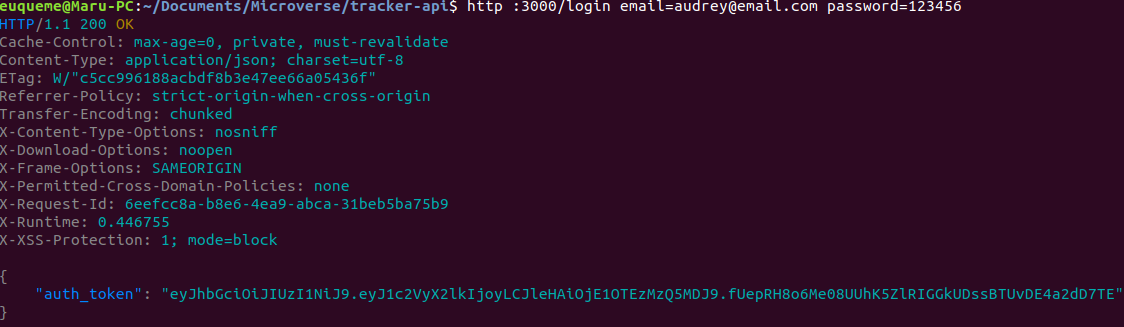
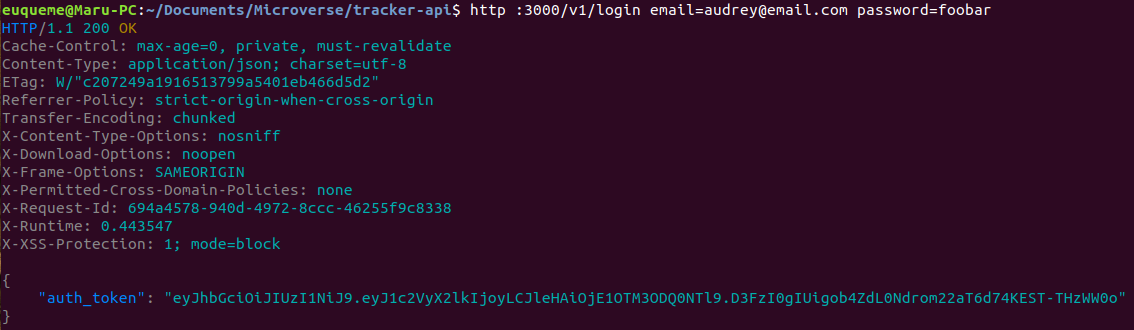
Update images with API Version 1

diff --git a/app/controllers/v1/measurements_controller.rb b/app/controllers/v1/measurements_controller.rb
@@ -1,0 +1,51 @@
+class V1::MeasurementsController < ApplicationController
+  before_action :set_user
+  before_action :set_user_measurement, only: %i[show update destroy]
+  before_action :check_current_user, only: %i[create update destroy]
+
+  # GET /users/:user_id/measurements
+  def index
+    json_response(@user.measurements)
+  end
+
+  # GET /users/:user_id/measurements/:id
+  def show
+    json_response(@measurement)
+  end
+
+  # POST /users/:user_id/measurements
+  def create
+    @user.measurements.create!(measurement_params)
+    json_response(@user.measurements.last, :created)
+  end
+
+  # PUT /users/:user_id/measurements/:id
+  def update
+    @measurement.update(measurement_params)
+    head :no_content
+  end
+
+  # DELETE /users/:user_id/measurements/:id
+  def destroy
+    @measurement.destroy
+    head :no_content
+  end
+
+  private
+
+  def measurement_params
+    params.permit(:description, :amount, :exercise_id, :user_id)
+  end
+
+  def set_user
+    @user = User.find(params[:user_id])
+  end
+
+  def set_user_measurement
+    @measurement = @user.measurements.find_by!(id: params[:id]) if @user
+  end
+
+  def check_current_user
+    raise(ExceptionHandler::AuthenticationError, Message.notyou) unless current_user.id.to_s == params[:user_id]
+  end
+end

diff --git a/app/controllers/v1/exercises_controller.rb b/app/controllers/v1/exercises_controller.rb
@@ -1,0 +1,49 @@
+class V1::ExercisesController < ApplicationController
+  before_action :set_exercise, only: %i[show update destroy]
+  before_action :check_admin, only: %i[create update destroy]
+  skip_before_action :authorize_request, only: %i[index show]
+
+  # GET /exercises
+  def index
+    @exercises = Exercise.all
+    json_response(@exercises)
+  end
+
+  # POST /exercises
+  def create
+    @exercise = current_user.exercises.create!(exercise_params)
+    json_response(@exercise, :created)
+  end
+
+  # GET /exercises/:id
+  def show
+    json_response(@exercise)
+  end
+
+  # PUT /exercises/:id
+  def update
+    @exercise.update(exercise_params)
+    head :no_content
+  end
+
+  # DELETE /exercises/:id
+  def destroy
+    @exercise.destroy
+    head :no_content
+  end
+
+  private
+
+  def exercise_params
+    # whitelist params
+    params.permit(:name)
+  end
+
+  def set_exercise
+    @exercise = Exercise.find(params[:id])
+  end
+
+  def check_admin
+    raise(ExceptionHandler::AuthenticationError, Message.notallowed) unless current_user.admin
+  end
+end

diff --git a/app/controllers/v1/users_controller.rb b/app/controllers/v1/users_controller.rb
@@ -1,0 +1,22 @@
+class V1::UsersController < ApplicationController
+  skip_before_action :authorize_request, only: :create
+  # POST /signup
+  # return authenticated token upon signup
+
+  def create
+    user = User.create!(user_params)
+    auth_token = AuthenticateUser.new(user.email, params[:password]).call
+    response = { message: Message.account_created, auth_token: auth_token }
+    json_response(response, :created)
+  end
+
+  private
+
+  def user_params
+    params.permit(
+      :name,
+      :email,
+      :password
+    )
+  end
+end

diff --git a/app/controllers/v1/authentication_controller.rb b/app/controllers/v1/authentication_controller.rb
@@ -1,0 +1,15 @@
+class V1::AuthenticationController < ApplicationController
+  skip_before_action :authorize_request, only: :authenticate
+  # return auth token once user is authenticated
+  def authenticate
+    auth_token =
+      AuthenticateUser.new(auth_params[:email], auth_params[:password]).call
+    json_response(auth_token: auth_token)
+  end
+
+  private
+
+  def auth_params
+    params.permit(:email, :password)
+  end
+end
